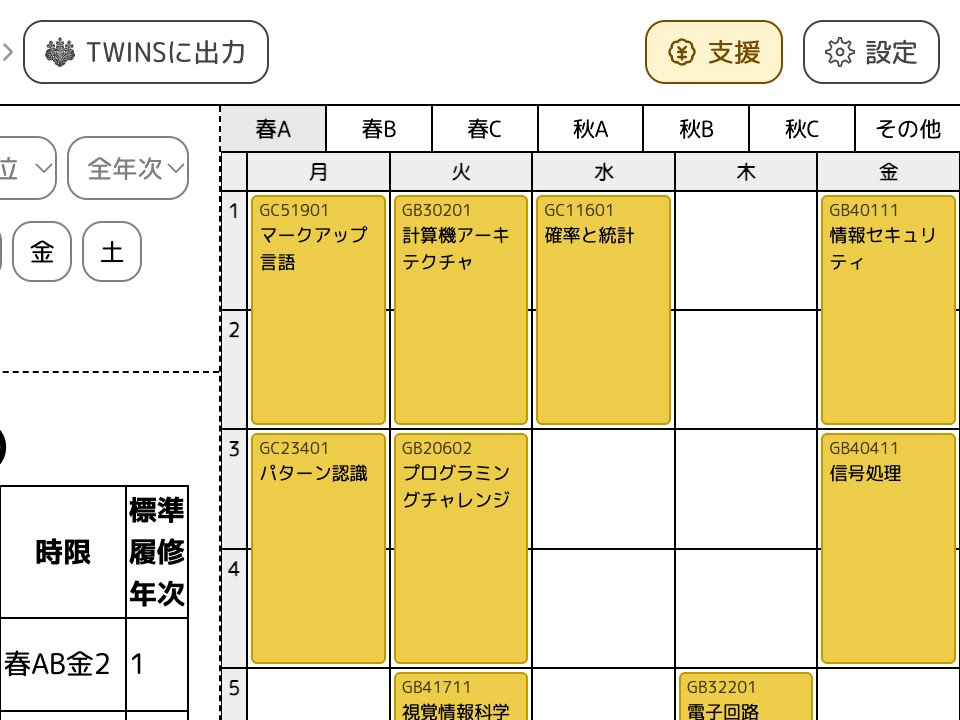
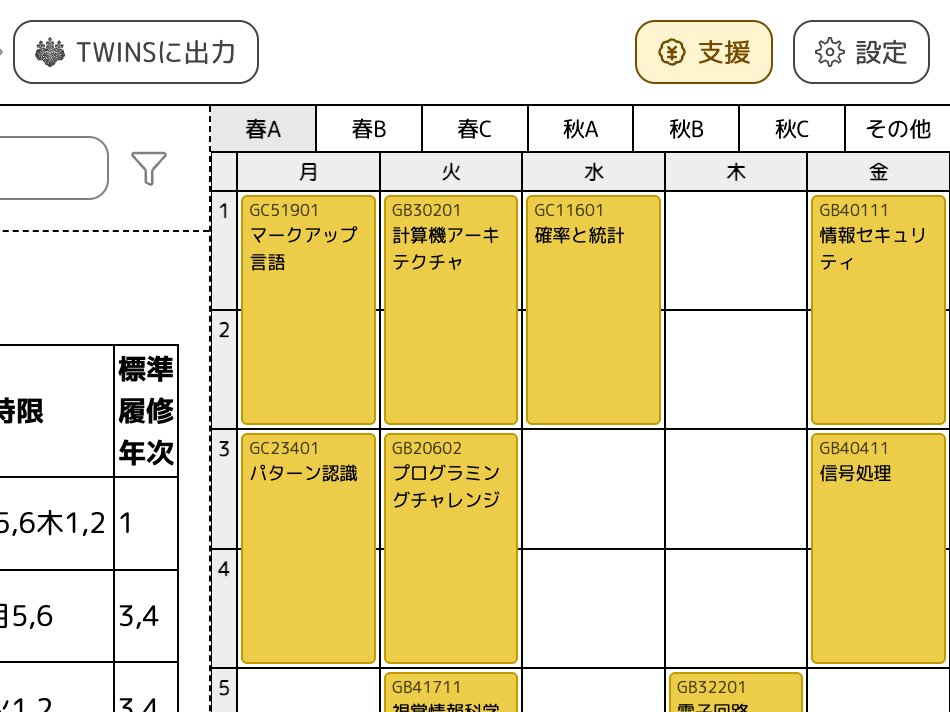
Retake the top page screenshots from the current UI
Crop each card's image ahead of time instead of cropping one large
screenshot in CSS, which also makes the page download smaller.

Changed region(s): [[0.0, 0.0309, 1.0, 1.0]]

diff --git a/src/routes/+page.svelte b/src/routes/+page.svelte
@@ -80,49 +80,32 @@
     pickedSection?.colleges.find((c) => c.college === pickedCollege)?.instances,
   );
 
-  type Rect = [x: number, y: number, w: number, h: number];
-  type Shot = { src: string; w: number; h: number };
-
-  const plan: Shot = { src: "/images/top/plan.jpg", w: 1600, h: 900 };
-  const timetable: Shot = { src: "/images/top/timetable.jpg", w: 960, h: 720 };
-
-  // title は改行してよい位置で区切る。crop は shot のピクセル座標
+  // title は改行してよい位置で区切る
   const features: {
     title: string[];
     body: string;
-    shot: Shot;
-    crop: Rect;
+    src: string;
+    alt: string;
   }[] = [
     {
       title: ["あと何単位", "必要かわかる"],
       body: "TWINSの成績ファイルを読み込むと、履修要覧の表に色が付く",
-      shot: plan,
-      crop: [85, 262, 360, 270],
+      src: "/images/top/credits.jpg",
+      alt: "取った単位で色が付いた履修要覧の表",
     },
     {
       title: ["取れる授業が", "すぐ見つかる"],
       body: "表のマスを押すと、そこに当てはまる授業が全部出てくる",
-      shot: plan,
-      crop: [870, 205, 348, 261],
+      src: "/images/top/courses.jpg",
+      alt: "選んだマスに当てはまる授業の一覧",
     },
     {
       title: ["TWINSに", "まとめて登録"],
       body: "組んだ時間割をファイルにして、TWINSで一度にアップロード",
-      shot: timetable,
-      crop: [0, 0, 960, 720],
+      src: "/images/top/timetable.jpg",
+      alt: "授業が入った時間割と「TWINSに出力」ボタン",
     },
   ];
-
-  function cropStyle(shot: Shot, [x, y, w, h]: Rect): string {
-    const percent = (offset: number, size: number, full: number) =>
-      size === full ? 0 : (offset / (full - size)) * 100;
-    return [
-      `background-image: url(${asset(shot.src)})`,
-      `background-size: ${(shot.w / w) * 100}% auto`,
-      `background-position: ${percent(x, w, shot.w)}% ${percent(y, h, shot.h)}%`,
-      `aspect-ratio: ${w} / ${h}`,
-    ].join(";");
-  }
 </script>
 
 <Meta title="あきこ" {description} />
@@ -155,7 +138,7 @@
         {#each f.title as part (part)}<span>{part}</span>{/each}
       </h3>
       <p>{f.body}</p>
-      <div class="crop" style={cropStyle(f.shot, f.crop)}></div>
+      <img src={asset(f.src)} alt={f.alt} />
     </li>
   {/each}
 </ol>
@@ -344,16 +327,17 @@
     font-weight: bold;
   }
 
-  .crop {
+  .features img {
     grid-column: 1/3;
     align-self: end;
     width: 100%;
+    aspect-ratio: 4 / 3;
+    object-fit: cover;
+    object-position: left top;
     margin-top: 10px;
     border: 1px solid #ddd;
     border-radius: 10px;
     box-sizing: border-box;
-    background-color: white;
-    background-repeat: no-repeat;
   }
 
   h2 {
